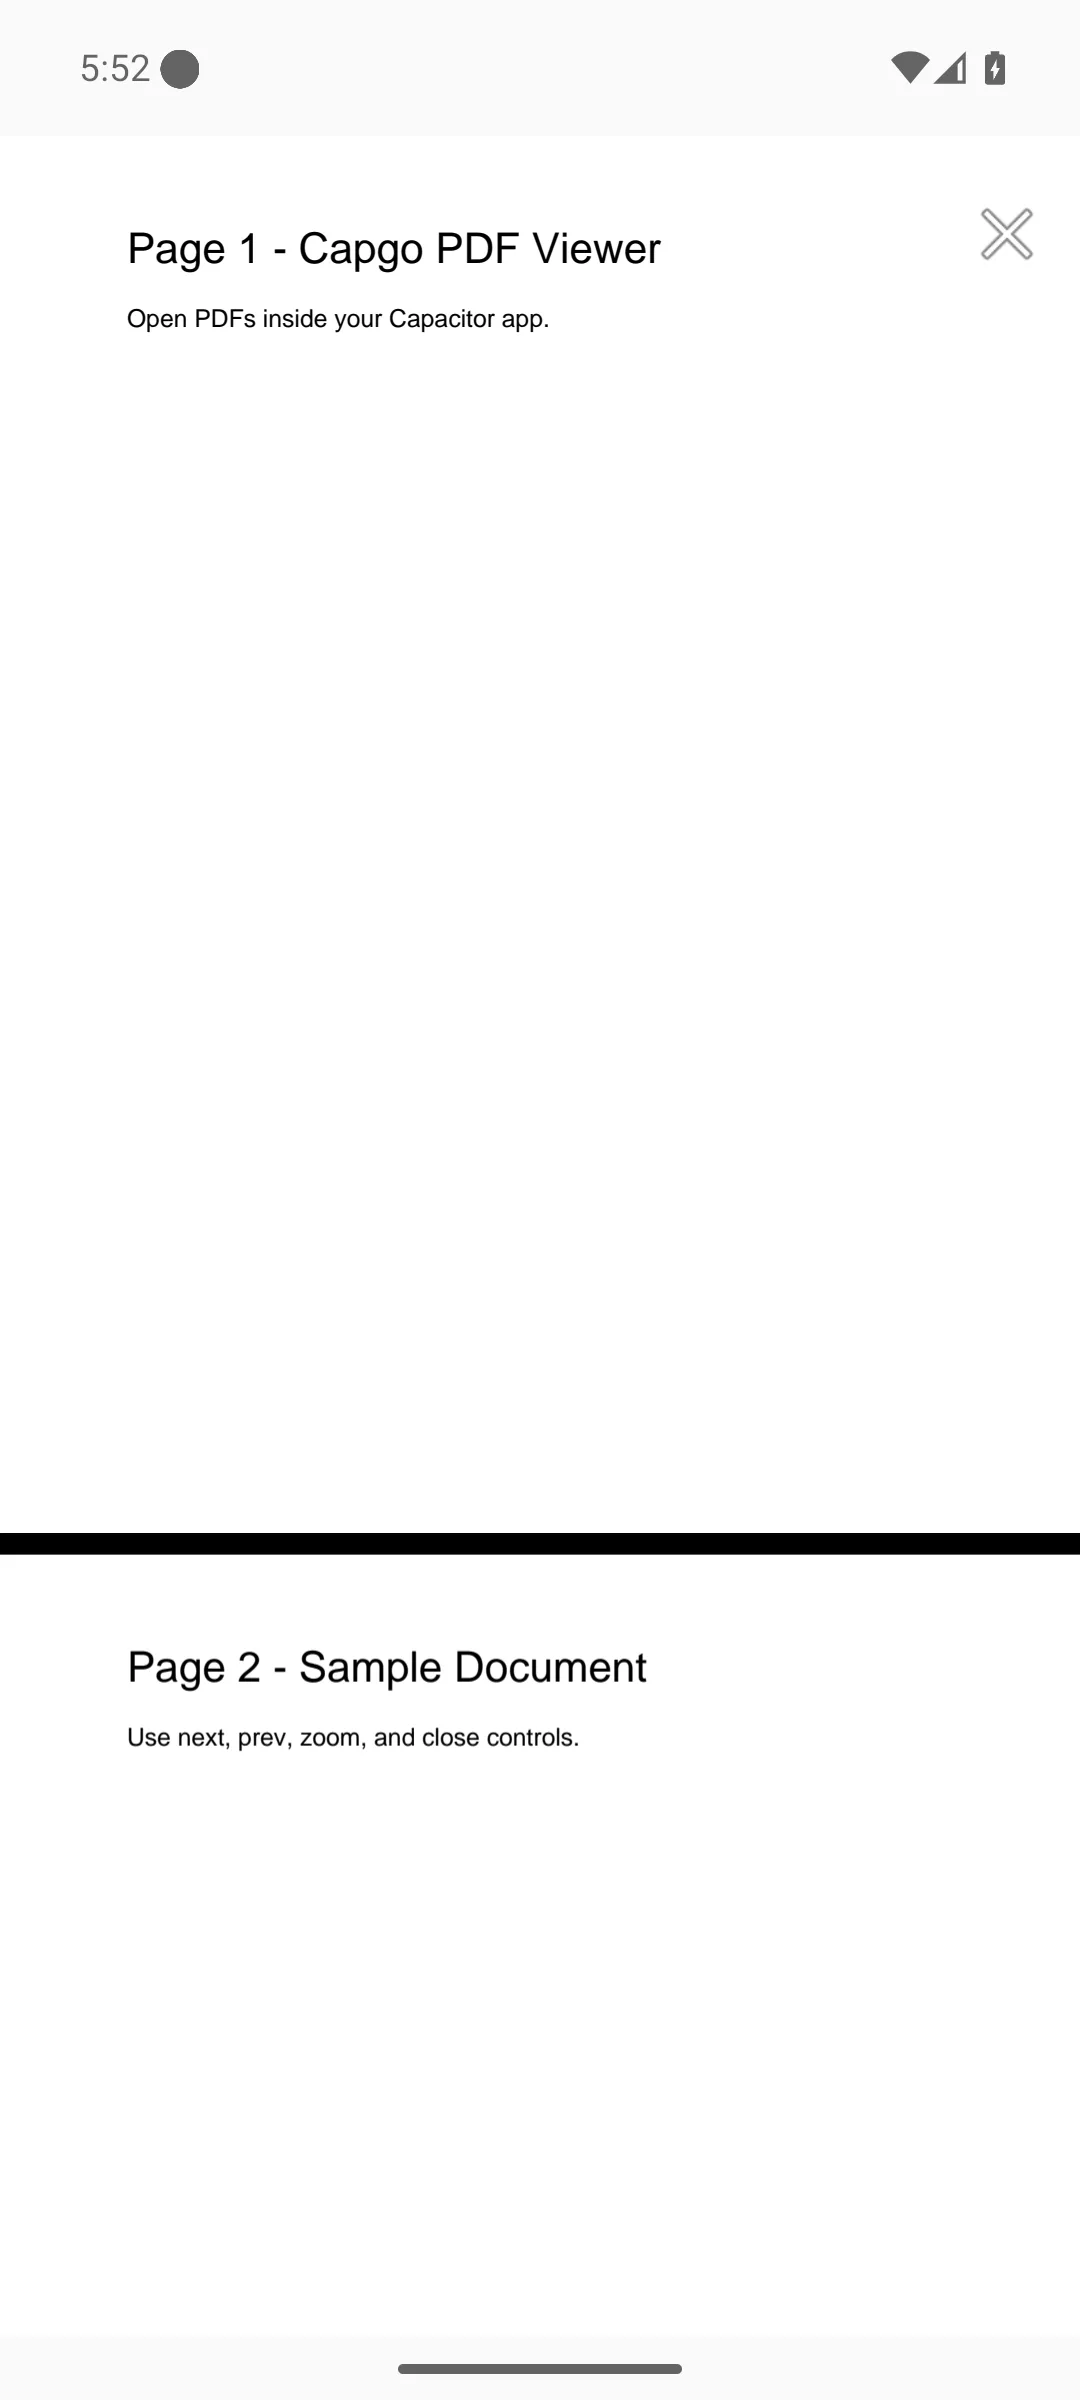
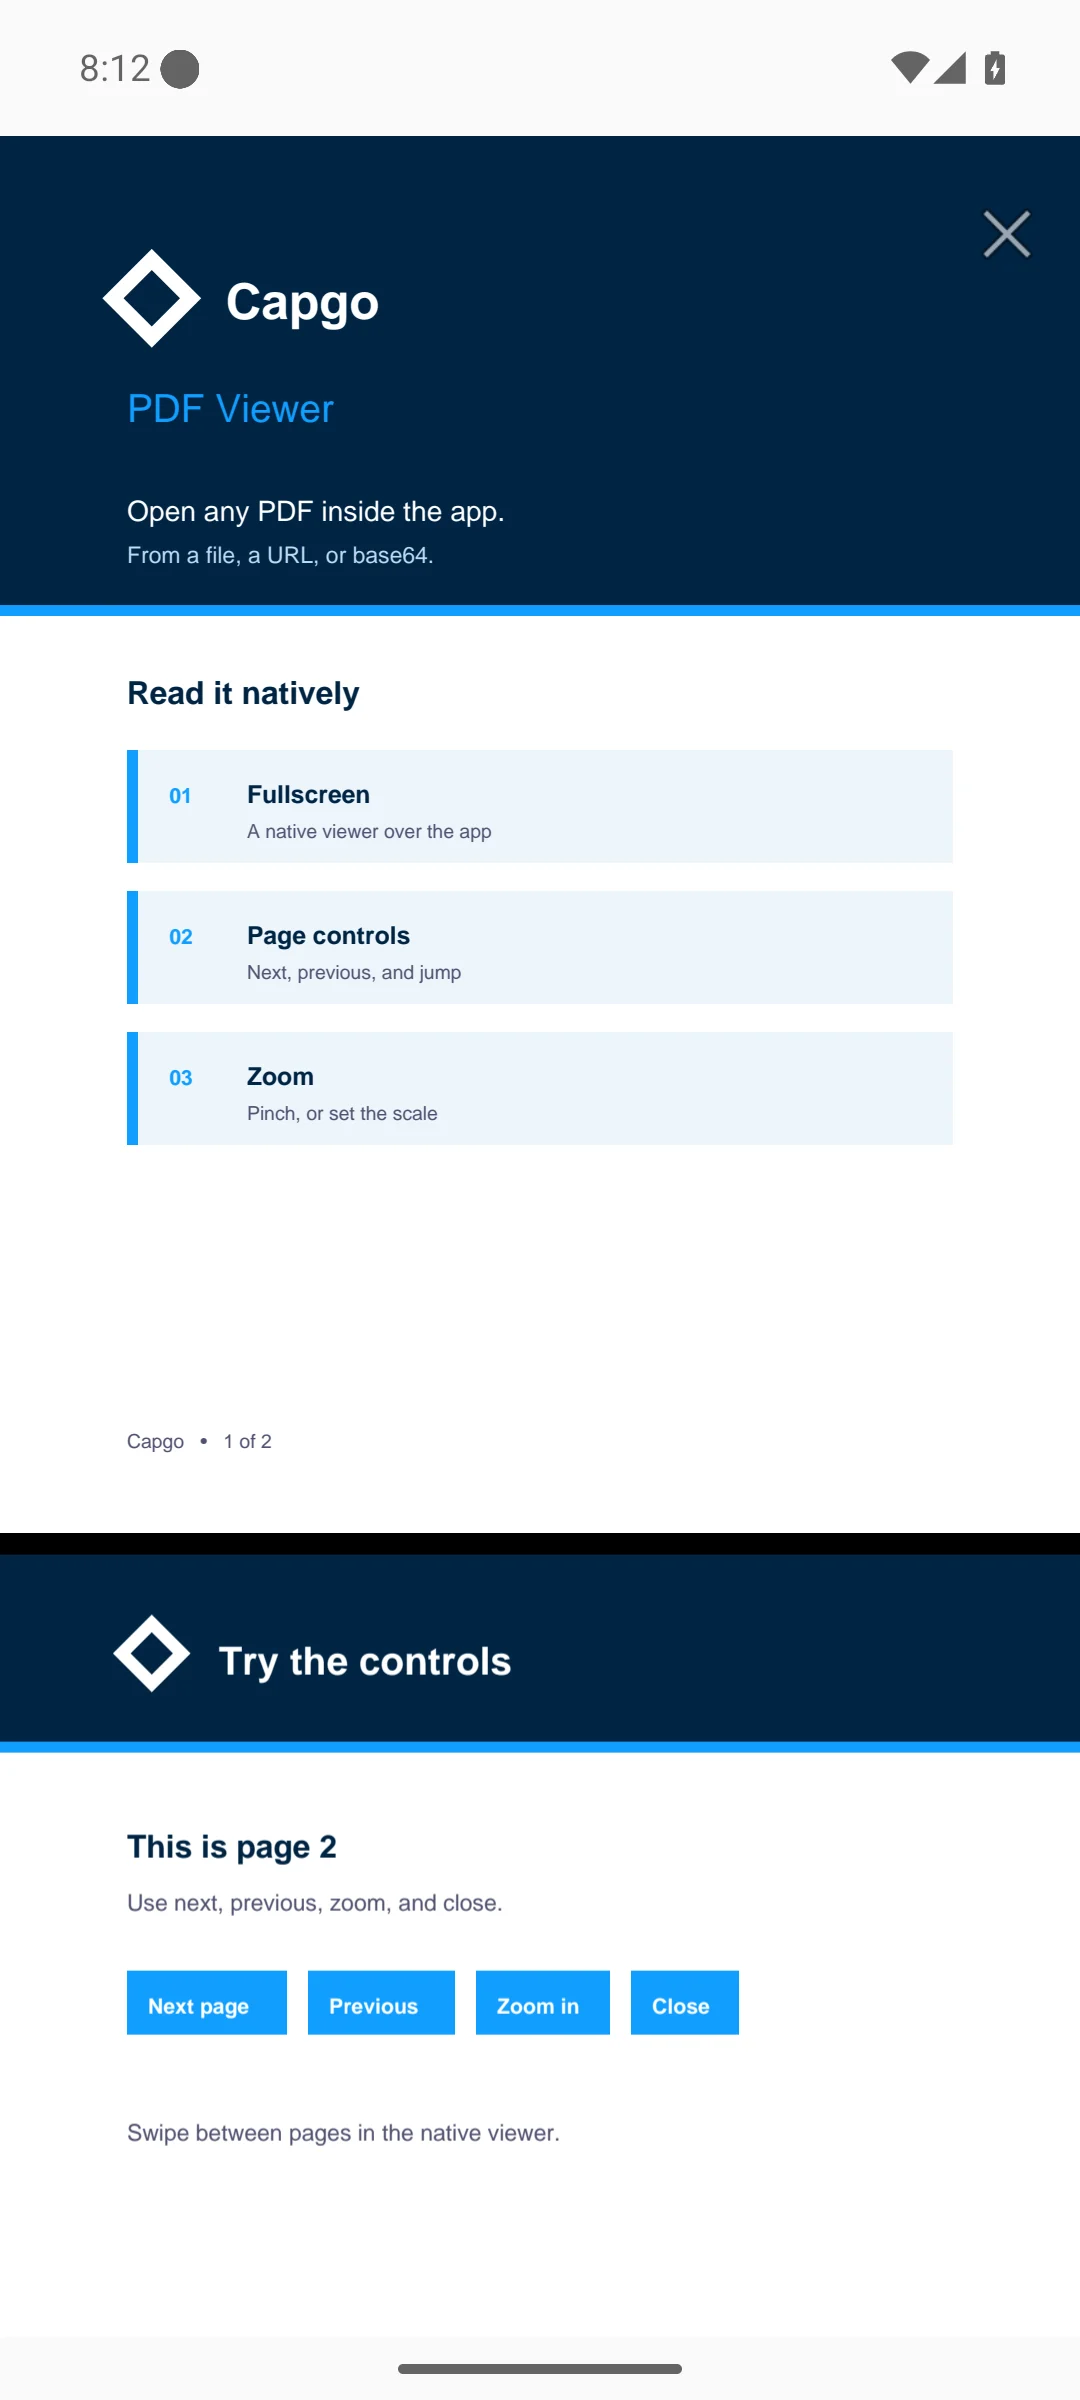
docs: brand the PDF example like Capgo
The sample document and example shell now use Capgo navy and azure, and the README shot matches that emulator demo.

diff --git a/example-app/src/style.css b/example-app/src/style.css
@@ -12,10 +12,10 @@ body {
 }
 
 :root {
-  color-scheme: light dark;
+  color-scheme: dark;
   font-family: Inter, -apple-system, BlinkMacSystemFont, 'Segoe UI', sans-serif;
-  background: #0f172a;
-  color: #e2e8f0;
+  background: #002444;
+  color: #f8fafc;
 }
 
 body {
@@ -29,18 +29,40 @@ body {
 
 main.container {
   width: min(560px, 100%);
-  background: rgba(15, 23, 42, 0.88);
-  border-radius: 14px;
+  background: rgba(0, 22, 42, 0.72);
+  border: 1px solid rgba(17, 158, 255, 0.22);
+  border-radius: 18px;
   padding: 1.5rem;
   display: flex;
   flex-direction: column;
   gap: 0.9rem;
-  box-shadow: 0 20px 45px rgba(2, 6, 23, 0.4);
+}
+
+.brand {
+  display: flex;
+  align-items: center;
+  gap: 0.8rem;
+}
+
+.mark {
+  width: 22px;
+  height: 22px;
+  border: 3px solid #fff;
+  transform: rotate(45deg);
+  border-radius: 3px;
+}
+
+.name {
+  margin: 0;
+  font-size: 0.78rem;
+  letter-spacing: 0.08em;
+  text-transform: uppercase;
+  color: #119eff;
 }
 
 h1 {
   margin: 0;
-  font-size: 1.35rem;
+  font-size: 1.45rem;
 }
 
 .lead {
@@ -74,8 +96,8 @@ button {
   padding: 0.65rem 1.1rem;
   font-size: 0.95rem;
   font-weight: 600;
-  color: #0f172a;
-  background: linear-gradient(120deg, #22d3ee, #60a5fa);
+  color: #fff;
+  background: #119eff;
   cursor: pointer;
 }
 

diff --git a/example-app/index.html b/example-app/index.html
@@ -13,8 +13,14 @@
   </head>
   <body>
     <main class="container">
-      <h1>@capgo/capacitor-pdf-viewer</h1>
-      <p class="lead">Open PDFs fullscreen or inline, then navigate and zoom.</p>
+      <header class="brand">
+        <span class="mark" aria-hidden="true"></span>
+        <div>
+          <p class="name">Capgo</p>
+          <h1>PDF Viewer</h1>
+        </div>
+      </header>
+      <p class="lead">Open a PDF fullscreen or inline, then turn the page and zoom.</p>
 
       <div id="inline-pdf" class="inline-box" aria-label="Inline PDF area"></div>
 
